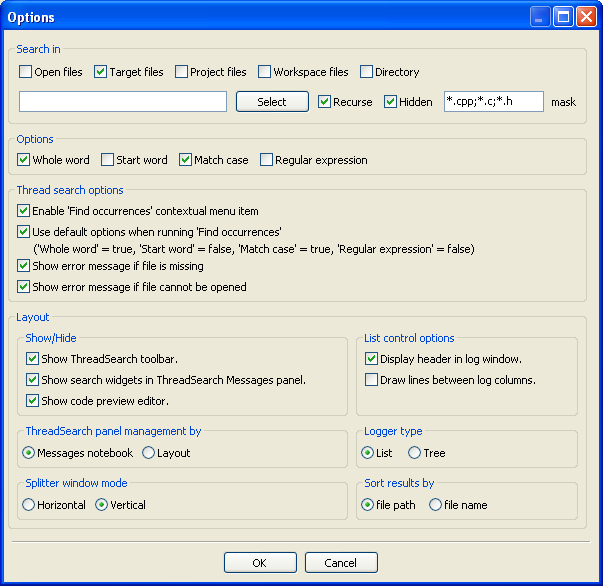
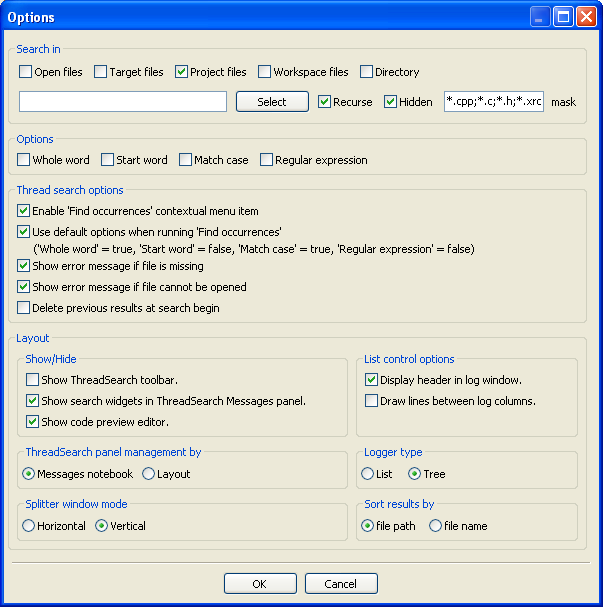
docu: - new Thread Search features (history of search results) - start documentation for DDE/IPC commands
git-svn-id: http://svn.code.sf.net/p/codeblocks/code/docs@5357 2a5c6006-c6dd-42ca-98ab-0921f2732cef

Changed region(s): [[0.0, 0.0, 0.9552, 0.9829], [0.597, 0.5529, 0.8955, 0.6758], [0.6567, 0.0, 0.9851, 0.0614]]

diff --git a/userguide/basics_de.tex b/userguide/basics_de.tex
@@ -268,6 +268,10 @@ Die Einbindung von externen Tools ist in \codeblocks unter dem Menüeintrag \men
 
 In diesem Kapitel werden Ihnen einige nützliche Einstellungen in \codeblocks vorgestellt.
 
+\subsection{Datenaustausch mit anderen Anwendungen}
+
+Zwischen \codeblocks und anderen Anwendungen können Daten dynamisch ausgetauscht werden. Diese Interprozess Kommuikation wird unter Windows auf DDE (Dynamic Data Exchange) und unter anderen Betriebssystemen auf eine TCP Kommunikation zwischen den Anwendungen abgebildet.
+
 \subsection{Konfiguration von Umgebungsvariablen}
 
 Die Konfiguration für ein Betriebssystem wird durch sogenannte Umgebungsvariablen festgelegt. Zum Beispiel enthält die Umgebungsvariablen \codeline{PATH} den Pfad auf einen installierten Compiler. Das Betriebssystem geht diese Umgebungsvariable von vorne nach hinten durch, d.h. die Einträge am Ende werden als letztes durchsucht. Wenn nun unterschiedliche Versionen eines Compilers oder anderer Anwendungen installiert sind, können nun folgende Situationen auftreten:
@@ -407,6 +411,7 @@ codeblocks.exe /na /nd --no-splash-screen --built <name>.cbp --target='Release'
 \item[/h, --help] Shows a help message regarding the command line arguments.
 \item[/na, --no-check-associations] Don't perform any file association checks (Windows only).
 \item[/nd, --no-dde] Don't start a DDE server (Windows only).
+\item[/ni, --no-ipc] Don't start an IPC server (Linux and Mac only).
 \item[/ns, --no-splash-screen] Hides the splash screen while the application is loading.
 \item[/d, --debug-log] Display the debug log of the application.
 \item[--prefix=\var{str}] Sets the shared data directory prefix.

diff --git a/userguide/basics_en.tex b/userguide/basics_en.tex
@@ -235,7 +235,6 @@ The following categories exist for the symbols:
 Structures and classes are displayed below the pre-processor symbols. If a category is selected by mouse-click, the found symbols will be displayed in the lower part of the window (see \pxref{fig:symbols}). Double-clicking the symbol will open the file in which the symbol is defined or the function implemented, and jumps to the corresponding line.
 
 \hint{In the editor, a list of the classes can be displayed via the context menus \menu{Insert Class method declaration implementation} or \menu{All class methods without implementation}.}
-%split view horizontally, vertically
 
 \subsection{Including external help files}
 
@@ -267,6 +266,8 @@ Including external tools is possible in \codeblocks via \menu{Tools,Configure To
 \section{Tips for working with \codeblocks}
 
 In this chapter we will present some useful settings in \codeblocks.
+
+\subsection{Data Exchange with other applications}
 
 \subsection{Configuring environmental variables}
 
@@ -406,6 +407,7 @@ codeblocks.exe /na /nd --no-splash-screen --built <name>.cbp --target='Release'
 \item[/h, --help] Shows a help message regarding the command line arguments.
 \item[/na, --no-check-associations] Don't perform any file association checks (Windows only).
 \item[/nd, --no-dde] Don't start a DDE server (Windows only).
+\item[/ni, --no-ipc] Don't start an IPC server (Linux and Mac only).
 \item[/ns, --no-splash-screen] Hides the splash screen while the application is loading.
 \item[/d, --debug-log] Display the debug log of the application.
 \item[--prefix=\var{str}] Sets the shared data directory prefix.

diff --git a/userguide/thread_search_de.tex b/userguide/thread_search_de.tex
@@ -74,6 +74,14 @@ Sie können Filter für die Suche von Dateien konfigurieren.
 \begin{description}
 \item[Enable \samp{Find occurrences contextual menu item}] Fügt den Eintrag \samp{Find occurrences of \samp{Focused word}} im Kontextmenü im Editor hinzu.
 \item[Use default options when running \samp{Find occurrences}] Diese Einstellung übernimmt die voreingestellte Konfiguration für das Kontextmenü \samp{Find occurrences}. Standardmäßig ist die Einstellung \samp{Whole word} und \samp{Match case} aktiv.
+\item[Delete previous results at search begin] Bei der Suche mit ThreadSearch und der Einstellung \samp{Tree View} werden die Suchergebnisse hierarchisch angezeigt, d.h.
+\begin{itemize}
+\item der erste Knoten ist der Suchbegriff selbst
+\item darunter werden die Dateien, die den Suchbegriff enthalten, gelistet
+\item innerhalb der Dateiliste wird die Zeilennummer und der zugehörige Inhalt, wo der Suchbegriff gefunden wurde, angezeigt
+\end{itemize}
+Bei einer Suche nach mehreren Begriffen wird die Liste schnell unübersichtlich, deshalb bietet diese Einstellung die Möglichkeit vorangegangene Suchergebnisse beim Start einer Suche zu löschen.
+\hint{In der Anzeige der Suchergebnisse können auch einzelne oder alle Einträge über das Kontextmenü \menu{Delete item} bzw. \menu{Delete all items} gelöscht werden.}
 \end{description}
 
 \subsection{Layout}

diff --git a/userguide/thread_search_en.tex b/userguide/thread_search_en.tex
@@ -74,6 +74,14 @@ Search in part defines the set of files that will be analysed.
 \begin{description}
 \item[Enable \samp{Find occurrences contextual menu item}] If checked, the Find occurrences of \samp{Focused word} entry is added to the editor contextual menu.
 \item[Use default options when running \samp{Find occurrences}] If checked, a set of default options is applied to the searches launched with the \samp{Find occurrences} contextual menu item.Per defaut option \samp{Whole word} and \samp{Match case} is enabled.
+\item[Delete previous results at search begin] If ThreadSearch is configured with \samp{Tree View} then the search results will be listet hierarchically,
+\begin{itemize}
+\item the first node contains the search term
+\item above the files which contain the search term are listed
+\item within this list the line number and the corresponding content of the occurence is displayed
+\end{itemize}
+If you search different terms the list will become confusing, therefore previous search results can be cleared at search begin using this option.
+\hint{In the list of occurences single items or all items can be deleted via the context menu \menu{Delete item} or \menu{Delete all items}.}
 \end{description}
 
 \subsection{Layout}
